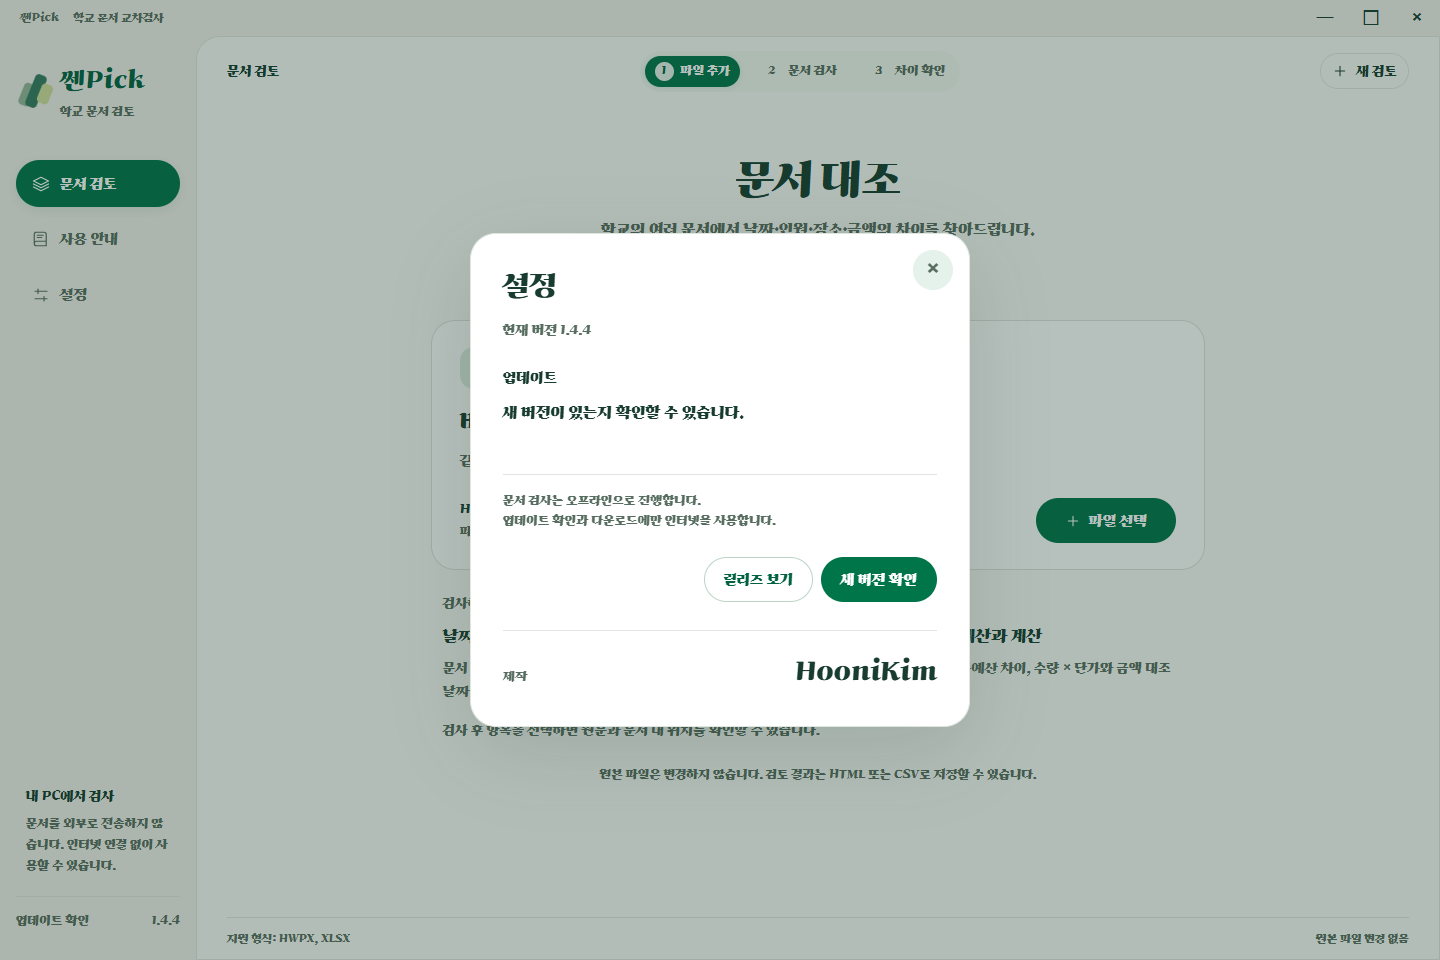
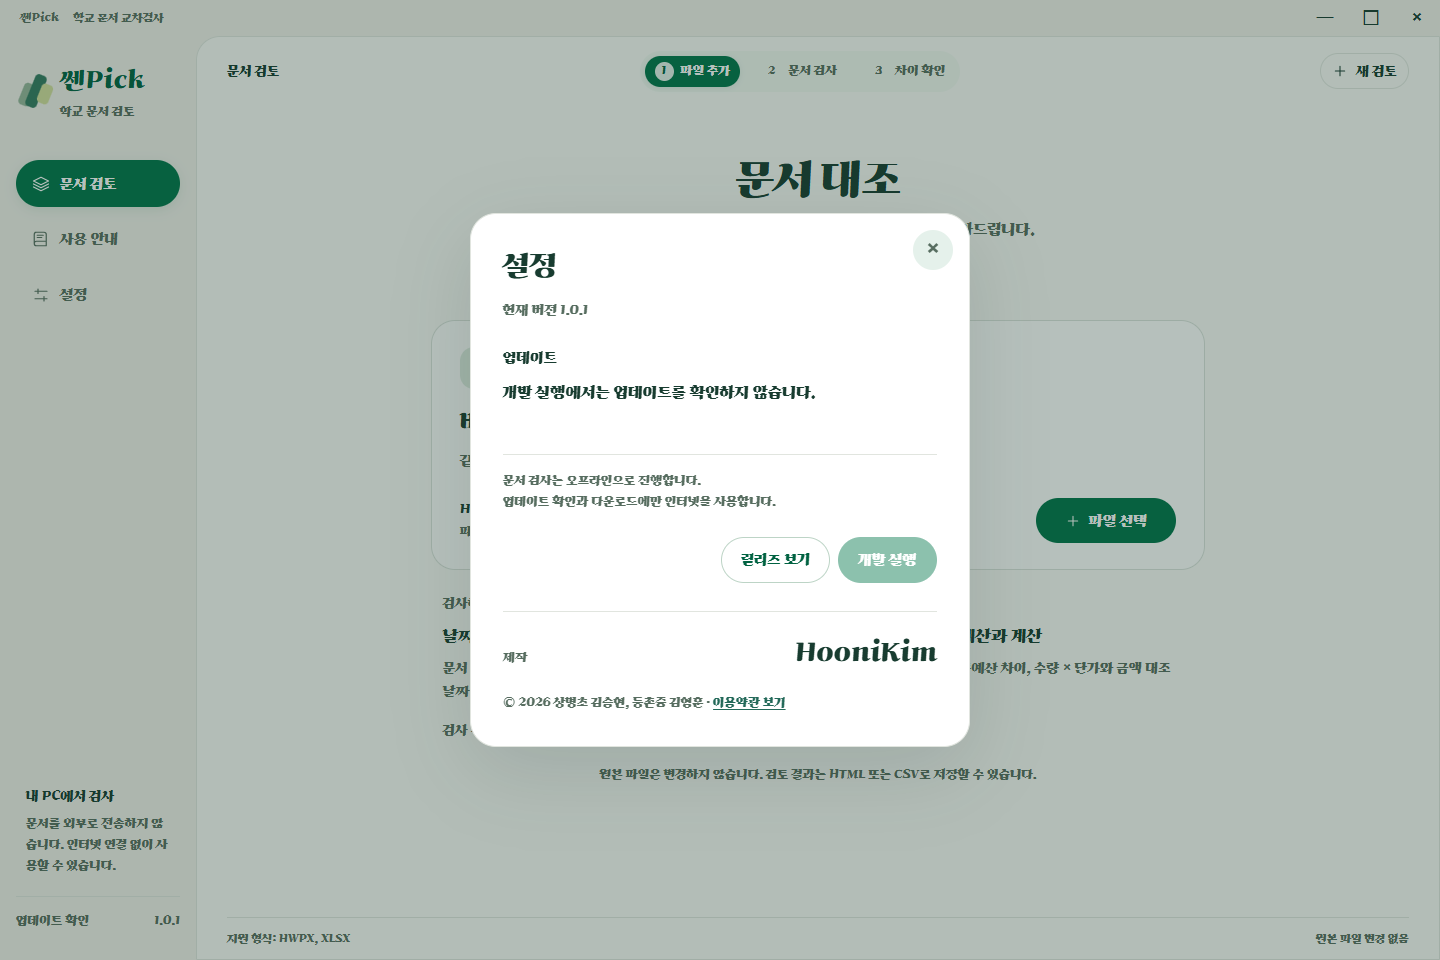
Release 1.0.1 with SsenPick license terms
- Add the SsenPick license terms (LICENSE) and third-party notices
- Show the license page in the installer, install LICENSE.txt, and set
  LegalCopyright on the installer and executable
- Add a copyright line and license toggle to the settings dialog

diff --git a/app/index.html b/app/index.html
@@ -1,6 +1,6 @@
 <!doctype html>
 <html lang="ko">
-<head><meta charset="utf-8"><meta name="viewport" content="width=device-width,initial-scale=1"><meta http-equiv="Content-Security-Policy" content="default-src 'self'; script-src 'self'; style-src 'self'; img-src 'self' data:; font-src 'self'; connect-src 'none'; object-src 'none'; base-uri 'none'; form-action 'none'"><title>쎈Pick</title><link rel="stylesheet" href="styles.css"></head>
+<head><meta charset="utf-8"><meta name="viewport" content="width=device-width,initial-scale=1"><meta http-equiv="Content-Security-Policy" content="default-src 'self'; script-src 'self'; style-src 'self'; img-src 'self' data:; font-src 'self'; connect-src 'none'; object-src 'none'; base-uri 'none'; form-action 'none'"><meta name="copyright" content="© 2026 상명초 김승현, 등촌중 김형훈"><meta name="ssenpick-origin" content="547046735c1d"><title>쎈Pick</title><link rel="stylesheet" href="styles.css"></head>
 <body>
 <div class="titlebar"><span class="titlebar-label">쎈Pick <span>학교 문서 교차검사</span></span><div class="window-actions"><button id="minimize" aria-label="창 최소화">─</button><button id="maximize" aria-label="창 최대화">□</button><button id="close" aria-label="창 닫기">×</button></div></div>
 <div class="app-shell">
@@ -39,7 +39,7 @@
 <dialog id="reset-dialog"><div class="eyebrow">NEW REVIEW</div><h2>새로운 검토를 시작할까요?</h2><p>현재 파일 목록과 확인 표시가 초기화됩니다.<br>필요한 검사 결과는 먼저 저장해 주세요.</p><div class="dialog-actions"><button id="reset-cancel" class="button secondary">돌아가기</button><button id="reset-confirm" class="button primary">새 검토 시작</button></div></dialog>
 <div id="toast" class="toast" role="status" hidden></div>
 <dialog id="edit-dialog" aria-labelledby="edit-heading"><button id="edit-close" class="dialog-close icon-button" aria-label="수정 닫기">×</button><h2 id="edit-heading">원문 직접 수정</h2><p id="edit-location"></p><div id="edit-fields" hidden><h3>현재 내용</h3><pre id="edit-original"></pre><label for="edit-text">수정할 내용</label><textarea id="edit-text" rows="4" maxlength="10000" spellcheck="false" aria-describedby="edit-hint"></textarea><p id="edit-hint"></p></div><p id="edit-error" role="alert" hidden></p><p class="edit-save-note">원본은 보관하고 새 파일로 저장합니다.<br>저장한 수정본으로 문서를 다시 검사합니다.</p><div class="dialog-actions"><button id="edit-source" class="button subtle">원본 열기</button><button id="edit-cancel" class="button secondary">취소</button><button id="edit-save" class="button primary" disabled>수정본 저장</button></div></dialog>
-<dialog id="update-dialog" aria-labelledby="update-heading"><form method="dialog"><button class="dialog-close icon-button" aria-label="닫기">×</button></form><h2 id="update-heading">설정</h2><p id="update-version"></p><section aria-labelledby="settings-update-heading"><h3 id="settings-update-heading">업데이트</h3><p id="update-message" role="status" aria-live="polite"></p><progress id="update-progress" max="100" value="0" hidden aria-label="업데이트 다운로드 진행률"></progress><p class="update-note">문서 검사는 오프라인으로 진행합니다.<br>업데이트 확인과 다운로드에만 인터넷을 사용합니다.</p><div class="dialog-actions"><button id="update-release" class="button secondary">릴리즈 보기</button><button id="update-action" class="button primary">새 버전 확인</button></div></section><footer class="maker-credit" aria-label="제작 HooniKim"><span>제작</span><strong>HooniKim</strong></footer></dialog>
+<dialog id="update-dialog" aria-labelledby="update-heading"><form method="dialog"><button class="dialog-close icon-button" aria-label="닫기">×</button></form><h2 id="update-heading">설정</h2><p id="update-version"></p><section aria-labelledby="settings-update-heading"><h3 id="settings-update-heading">업데이트</h3><p id="update-message" role="status" aria-live="polite"></p><progress id="update-progress" max="100" value="0" hidden aria-label="업데이트 다운로드 진행률"></progress><p class="update-note">문서 검사는 오프라인으로 진행합니다.<br>업데이트 확인과 다운로드에만 인터넷을 사용합니다.</p><div class="dialog-actions"><button id="update-release" class="button secondary">릴리즈 보기</button><button id="update-action" class="button primary">새 버전 확인</button></div></section><footer class="maker-credit" aria-label="제작 HooniKim"><span>제작</span><strong>HooniKim</strong></footer><p class="app-copy">© 2026 상명초 김승현, 등촌중 김형훈 · <button type="button" class="license-link" id="license-toggle" aria-expanded="false" aria-controls="license-text">이용약관 보기</button></p><pre id="license-text" class="license-text" hidden></pre></dialog>
 <script src="renderer.js"></script>
 <script src="updater-ui.js"></script>
 </body></html>

diff --git a/app/styles.css b/app/styles.css
@@ -7,6 +7,7 @@
 }
 /* Warm neutral and green palette matched to the user-provided SsenImage app reference.
    Surfaces: 22px; nested content and inputs: 14px; interactive pills: 999px. */
+:root { --panel-build: "071bcfa23f27"; }
 :root { color-scheme: light; --bg: #f2f0eb; --paper: #fff; --ink: #183c30; --muted: #576d60; --line: #e1e5df; --accent: #00754a; --accent-strong: #006241; --accent-soft: #e5f1eb; --surface-soft: #f2f7f1; --highlight: #d4e9e2; --red: #b13930; }
 * { box-sizing: border-box; font-synthesis: none; }
 [hidden] { display: none !important; }
@@ -300,3 +301,7 @@ dialog p { font-size: 14px; line-height: 1.8; margin: 12px 0 25px; }
   .has-files .heading-row p { margin-top: 5px; }
   .has-files .summary-strip { padding-block: 9px; }
 }
+
+.app-copy { margin: 18px 0 0; font-size: 12px; color: var(--muted); }
+.license-link { border: 0; background: none; padding: 0; font: inherit; color: #236959; text-decoration: underline; text-underline-offset: 3px; cursor: pointer; }
+.license-text { white-space: pre-wrap; word-break: break-word; max-height: 260px; overflow: auto; margin: 14px 0 0; padding: 14px; border: 1px solid var(--line); border-radius: 8px; background: #f8faf3; font-family: inherit; font-size: 12px; line-height: 1.75; color: #3d5444; }

diff --git a/app/updater-ui.js b/app/updater-ui.js
@@ -1,4 +1,5 @@
 (()=>{
+  const BUILD_TAG='1a07766b3ac2';
   const el=id=>document.getElementById(id);let state,acting=false;
   function render(value){
     if(!value||value.error)return;
@@ -17,6 +18,11 @@
   el('open-settings').onclick=openSettings;
   el('open-update').onclick=openSettings;
   el('update-release').onclick=()=>window.moa.openRelease();
+  el('license-toggle').onclick=async()=>{
+    const box=el('license-text');
+    if(!box.textContent){const text=await window.moa.licenseText().catch(()=>'');box.textContent=typeof text==='string'&&text?text:'이용약관을 불러오지 못했습니다. 설치 폴더의 LICENSE.txt를 확인해 주세요.';}
+    box.hidden=!box.hidden;el('license-toggle').textContent=box.hidden?'이용약관 보기':'이용약관 닫기';el('license-toggle').setAttribute('aria-expanded',String(!box.hidden));
+  };
   el('update-action').onclick=async()=>{
     if(!state||acting)return;acting=true;render(state);
     let errorMessage;

diff --git a/app/renderer.js b/app/renderer.js
@@ -3,6 +3,7 @@ const icons={layers:'M12 3 2 8l10 5 10-5-10-5ZM2 12l10 5 10-5M2 16l10 5 10-5',bo
 icons.settings='M4 7h16M4 17h16M8 4v6M16 14v6';
 const icon=n=>`<svg viewBox="0 0 24 24" fill="none" stroke="currentColor" stroke-width="1.6" stroke-linecap="round" stroke-linejoin="round" aria-hidden="true"><path d="${icons[n]||icons.file}"/></svg>`;
 document.querySelectorAll('[data-icon]').forEach(n=>n.innerHTML=icon(n.dataset.icon));
+document.documentElement.dataset.build='824652a67ab5';
 const esc=s=>String(s??'').replace(/[&<>"']/g,c=>({'&':'&amp;','<':'&lt;','>':'&gt;','"':'&quot;',"'":'&#39;'}[c]));
 let files=[],report=null,documents=[],selected=null,filter='all',busy=false,statuses={},toastTimer;
 $('#year').value=new Date().getFullYear();

diff --git a/RELEASING.md b/RELEASING.md
@@ -5,7 +5,7 @@
 1. `package.json` 버전을 올리고 `npm install --package-lock-only`로 잠금 파일을 갱신합니다.
 2. `CHANGELOG.md`에 `## 새버전` 항목과 변경 내용을 작성합니다.
 3. 커밋한 뒤 원격 저장소에 push합니다.
-4. `npm run release`를 실행합니다. 단위·Electron UI 테스트, Windows 설치형·ZIP 빌드, 해시 생성, GitHub 릴리즈 게시를 순서대로 수행합니다.
+4. `npm run release`를 실행합니다. 빌드 전에 `scripts/prepare-license.cjs`가 `LICENSE`로 설치 화면용 `build/LICENSE.txt`(UTF-16LE)를 만듭니다. 약관을 고칠 때는 `LICENSE`만 수정하세요. 단위·Electron UI 테스트, Windows 설치형·ZIP 빌드, 해시 생성, GitHub 릴리즈 게시를 순서대로 수행합니다.
 5. 첫 배포나 설치 UI 변경 시 실제 설치 파일을 열어 시작·진행·완료 화면, 완료 후 실행, 업데이트 확인을 검증합니다.
 
 초안은 `npm run release -- --draft`로 만들 수 있습니다. 초안을 게시하기 전에는 자동 업데이트에 표시되지 않습니다. 한 번 게시한 버전의 파일을 교체하지 말고 버전을 올려 새 릴리즈를 만드세요. 과거 릴리즈는 그대로 보관합니다.

diff --git a/THIRD-PARTY-NOTICES.md b/THIRD-PARTY-NOTICES.md
@@ -1,0 +1,10 @@
+# 출처와 라이선스
+
+> 이 앱 자체 코드는 LICENSE(이용약관)를 따르며, 아래 구성 요소는 각자의 라이선스를 따릅니다.
+
+- Electron 44(MIT): 앱 실행 환경입니다. Electron과 Chromium의 라이선스 원문은 설치 폴더의 `LICENSE.electron.txt`, `LICENSES.chromium.html`에 있습니다.
+- electron-updater(MIT)와 함께 들어가는 builder-util-runtime, debug, fs-extra, jsonfile, js-yaml, lazy-val, lodash.escaperegexp, lodash.isequal, ms, tiny-typed-emitter, universalify(MIT), graceful-fs, semver(ISC), argparse(Python-2.0), sax(BlueOak-1.0.0): 업데이트 확인과 다운로드에 씁니다.
+- fflate(MIT), @xmldom/xmldom(MIT), diff(BSD-3-Clause): HWPX·XLSX 문서를 읽고 고친 내용을 비교하는 데 씁니다.
+- 버전은 `package-lock.json`에, 각 패키지의 라이선스 원문은 설치된 패키지 안에 있습니다.
+- 프리텐다드(SIL Open Font License 1.1): `assets/Pretendard-LICENSE.txt`.
+- 가나초콜릿체(롯데웰푸드, 자체 이용 조건): `assets/Ghanachocolate-NOTICE.txt`.

diff --git a/CLAUDE.md b/CLAUDE.md
@@ -1,0 +1,10 @@
+# 쎈Pick 작업 안내
+
+배포 절차는 `RELEASING.md`를 따른다.
+
+## 주의
+
+- 1.0.1부터 자체 이용약관(`LICENSE`)을 적용한다. 설치 화면 약관 페이지, 설치 폴더 `LICENSE.txt`, 파일 속성 저작권, 설정 창의 [이용약관 보기]가 모두 `LICENSE`에서 나온다. 코드 난독화는 하지 않는다.
+- 앱 코드 안에 복제 증거 표식 6곳이 있다. 위치와 값은 `docs/provenance.md`(공개 저장소이므로 커밋하지 않음, 관리자 PC에만 보관)에 있다. 표식을 고치거나 지우면 그 기록도 함께 고친다.
+- 이용자 결과물(HTML·CSV 검사 결과, 수정본 문서, 예제 내보내기)과 그 메타데이터에는 어떤 표식도 넣지 않는다.
+- appId(`kr.moa.review`), 설치 폴더 이름, 실행 파일 이름(`MoaReview.exe`)은 바꾸지 않는다. 기존 설치와 자동 업데이트가 깨진다.

diff --git a/CHANGELOG.md b/CHANGELOG.md
@@ -1,5 +1,13 @@
 # 변경 이력
 
+## 1.0.1
+
+- 쎈Pick 이용약관을 새로 정했습니다. 공식 배포처가 아닌 곳에 다시 올리기, 수정·개작, 설치 파일을 AI 서비스에 올려 분석·복제하게 하는 일 등은 허락 없이 할 수 없습니다.
+- 설정 창 아래에 저작권 표시와 [이용약관 보기]를 넣었습니다.
+- 처음 설치할 때 이용약관 화면이 나옵니다.
+
+참고: 이 약관은 1.0.1부터 적용됩니다. 함께 들어 있는 오픈소스 구성 요소는 각자의 라이선스를 따릅니다.
+
 ## 1.0.0
 
 - 현재 쎈Pick의 기능과 화면을 유지하고 배포 버전을 1.0.0으로 다시 시작합니다. 이전 1.1.0~1.4.4 배포는 개발 이력으로 보관합니다.
